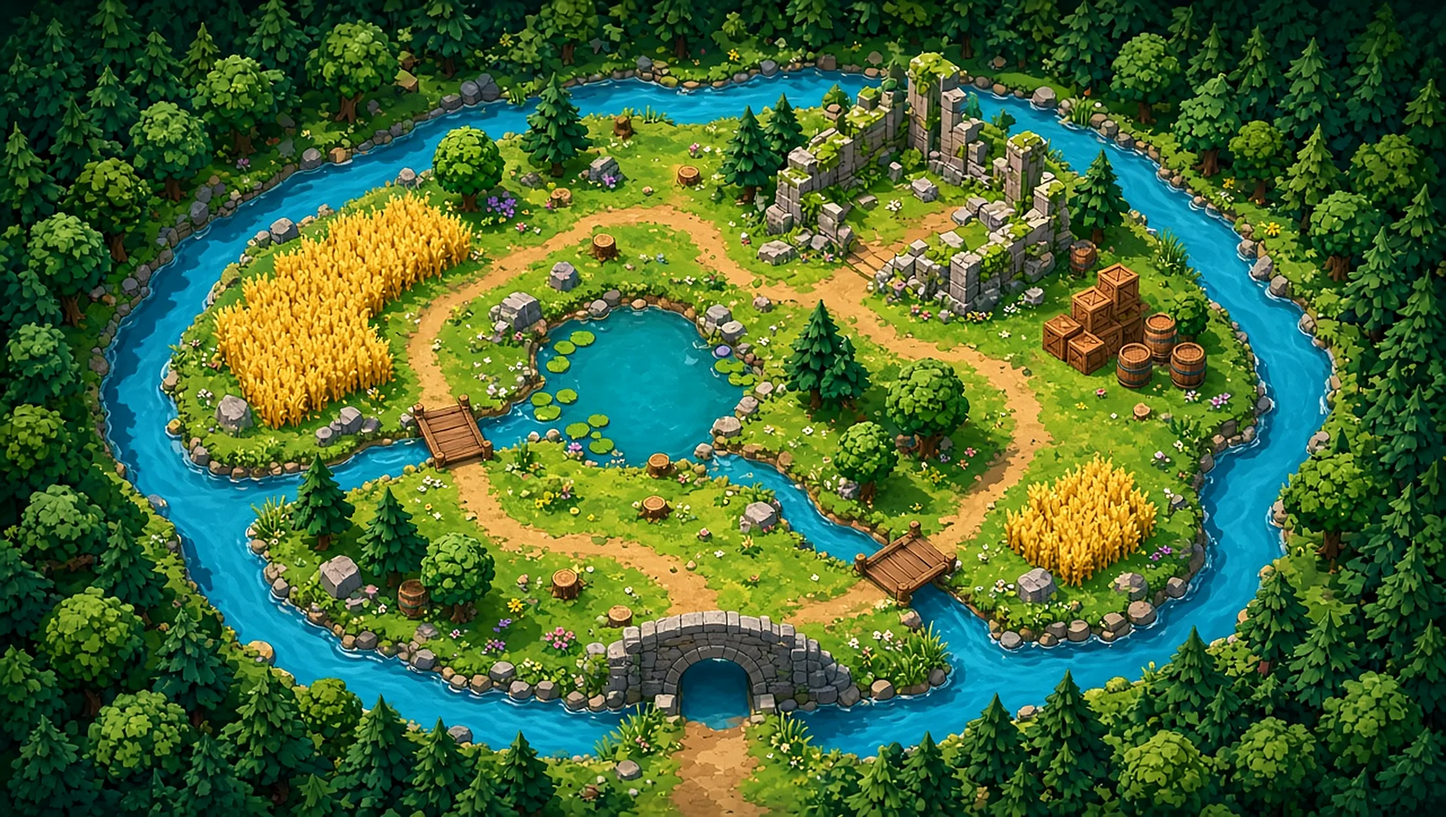
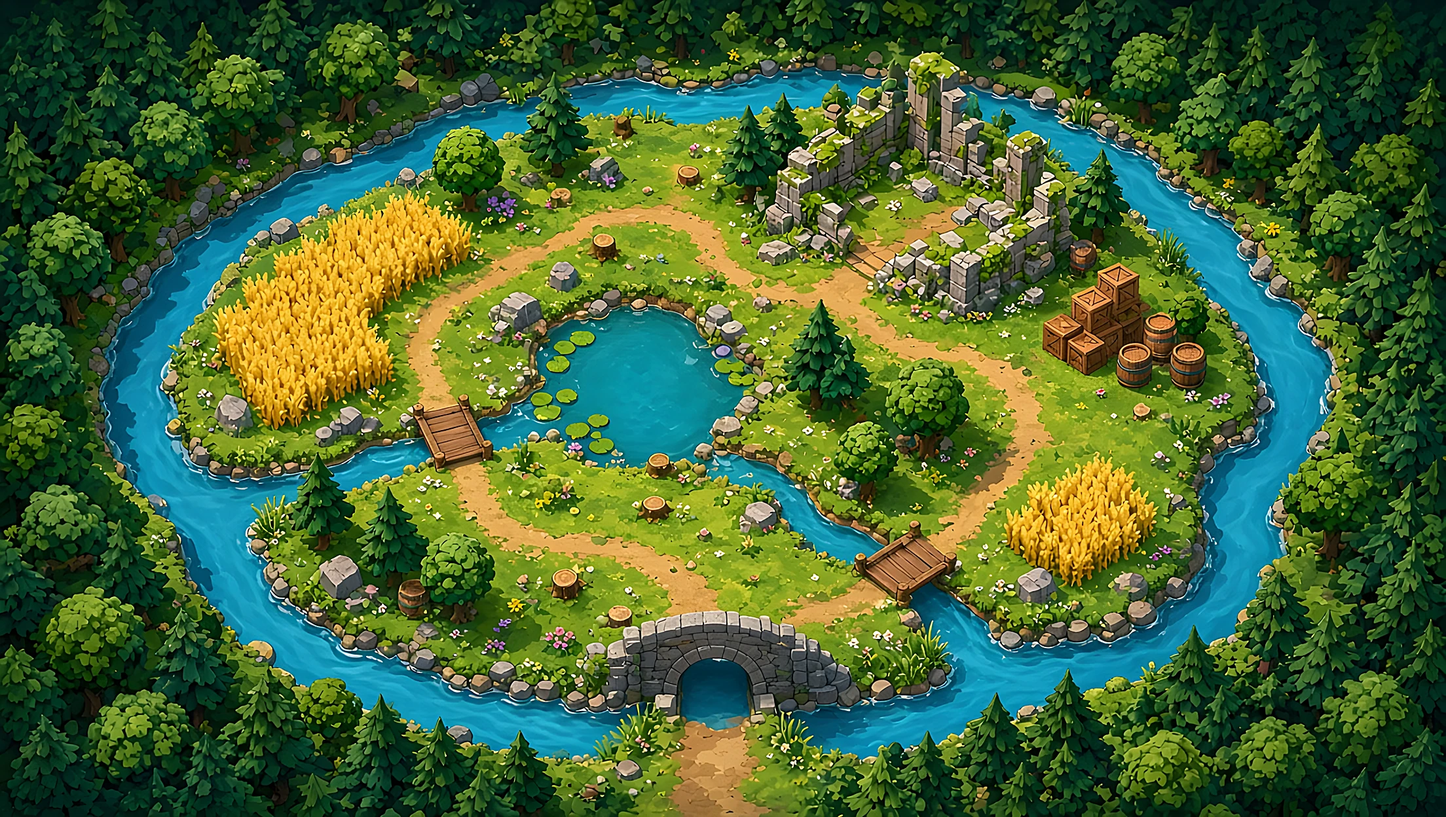
Block Z v20.1.2: safe zombie spawns and crisper arena ground.
Validate every spawn against all prop colliders, water and forest
(typemap, SDF, walk grid) with boss clearance, and skip spots hidden
behind tree sprites or painted ruins/crates. Never fall back to a
blocked point; nudge regular, elite, splitter-mini and boss units onto
free ground on spawn. Re-upscale the arena painting with Real-ESRGAN
x4plus and resample to the same 2208x1248 size (same chunk cache and
draw path, no perf change).

diff --git a/js/02_map.js b/js/02_map.js
@@ -622,18 +622,106 @@ function moveWithSlide(ent,dx,dy){
   for(i=0;i<steps;i++){ent.x+=dx*s;ent.y+=dy*s;resolveCircle(ent);}
   if(typeof sampleSDF==="function" && sampleSDF(ent.x,ent.y)<(ent.r||13)*0.35 && ent._gx!=null){ent.x=ent._gx;ent.y=ent._gy;resolveCircle(ent);}
 }
-function pickSpawn(p){
+/* v20.1.2: safe spawns — every spawn point is validated against all props
+   (trees, ruins, crates, barrels, rocks), water / forest edge (typemap + SDF)
+   and the baked walk grid, with clearance for the biggest unit. */
+var SPAWN_CLEAR_Z=22,SPAWN_CLEAR_BOSS=30;
+function spawnBlocked(x,y,rad){
+  rad=rad||SPAWN_CLEAR_Z;
+  if(!(x>=rad+4&&y>=rad+4&&x<=CFG.MAP_W-rad-4&&y<=CFG.MAP_H-rad-4))return 1;
+  if(typeof sampleType==="function"&&sampleType(x,y)!==0)return 1;
+  if(typeof sampleSDF==="function"&&sampleSDF(x,y)<rad)return 1;
+  /* props: test every solid, including climbable ones, with full radius */
+  var i,s,a=map.solids||[],qx,qy,dx,dy,cr;
+  for(i=0;i<a.length;i++){
+    s=a[i];if(!s||s.dead)continue;
+    if(s.shape==="circle"){
+      cr=s.cr||Math.min(s.w,s.d)/2;dx=x-(s.x+s.w/2);dy=y-(s.y+s.d/2);
+      if(dx*dx+dy*dy<(rad+cr)*(rad+cr))return 1;
+      continue;
+    }
+    qx=clamp(x,s.x,s.x+s.w);qy=clamp(y,s.y,s.y+s.d);dx=x-qx;dy=y-qy;
+    if(dx*dx+dy*dy<rad*rad)return 1;
+  }
+  if(spawnHidden(x,y,rad))return 1;
+  if(map.grid){
+    var need=Math.ceil(rad/CFG.CELL)+1,cc,rr,c0,r0,px,py,lim=(rad+CFG.CELL*0.4)*(rad+CFG.CELL*0.4);
+    c0=(x/CFG.CELL)|0;r0=(y/CFG.CELL)|0;
+    for(rr=r0-need;rr<=r0+need;rr++){
+      for(cc=c0-need;cc<=c0+need;cc++){
+        px=(cc+0.5)*CFG.CELL;py=(rr+0.5)*CFG.CELL;
+        if((px-x)*(px-x)+(py-y)*(py-y)>lim)continue;
+        if(rr<0||rr>=map.rows||cc<0||cc>=map.cols)return 1;
+        if(map.grid[rr*map.cols+cc])return 1;
+      }
+    }
+  }
+  return 0;
+}
+/* Spots that look "inside" a structure on screen: behind a tree sprite
+   (drawn tall above its trunk, opaque from the north), under its canopy,
+   or tucked into the painted ruin / crate walls just north of a footprint. */
+function spawnHidden(x,y,rad){
+  var i,s,a=map.solids||[],cx,cy,R,mul,hy,hw,dx,dy,ys=CFG.YSCALE||0.7,m=rad*0.5;
+  for(i=0;i<a.length;i++){
+    s=a[i];if(!s||s.dead)continue;
+    if(s.k==="tree"){
+      cx=s.x+s.w/2;cy=s.y+s.d/2;R=s.canopy||34;dx=x-cx;dy=y-cy;
+      if(dx*dx+dy*dy<(R*0.6+m)*(R*0.6+m))return 1;
+      mul=s.treeKind==="pine"?2.85:s.treeKind==="bushy"?2.25:2.55;
+      hy=R*mul/ys;hw=R*mul*0.78*(s.treeKind==="pine"?0.32:0.4);
+      if(dy<0&&dy>-hy*0.92&&Math.abs(dx)<hw+m*0.5)return 1;
+      continue;
+    }
+    if(s.k==="ruin"||s.k==="crate"||s.k==="barrel"||s.k==="rock"){
+      hy=(s.h||16)/ys+m;
+      if(x>s.x-m&&x<s.x+s.w+m&&y<s.y+s.d&&y>s.y-hy)return 1;
+    }
+  }
+  return 0;
+}
+function _freeCells(rad){
+  map._freeCache=map._freeCache||{};
+  var key=rad+":"+(map.solids?map.solids.length:0);
+  if(map._freeCache[key])return map._freeCache[key];
+  var out=[],c,r,wx,wy;
+  for(r=1;r<map.rows-1;r++)for(c=1;c<map.cols-1;c++){
+    if(map.grid&&map.grid[r*map.cols+c])continue;
+    wx=(c+0.5)*CFG.CELL;wy=(r+0.5)*CFG.CELL;
+    if(!spawnBlocked(wx,wy,rad))out.push({x:wx,y:wy});
+  }
+  map._freeCache[key]=out;return out;
+}
+function placeOnGround(ent){
+  if(!ent)return ent;
+  var rad=ent.isBoss?Math.max(ent.r||26,SPAWN_CLEAR_BOSS):(ent.r||13)+2,i,ang,d,px,py,best=null,bd=1e18,f;
+  if(!spawnBlocked(ent.x,ent.y,rad))return ent;
+  for(d=6;d<=150;d+=6){
+    for(i=0;i<24;i++){
+      ang=i*(6.28318530718/24);
+      px=ent.x+Math.cos(ang)*d;py=ent.y+Math.sin(ang)*d;
+      if(!spawnBlocked(px,py,rad)){ent.x=px;ent.y=py;return ent;}
+    }
+  }
+  f=_freeCells(rad);
+  for(i=0;i<f.length;i++){d=(f[i].x-ent.x)*(f[i].x-ent.x)+(f[i].y-ent.y)*(f[i].y-ent.y);if(d<bd){bd=d;best=f[i];}}
+  if(best){ent.x=best.x;ent.y=best.y;}
+  return ent;
+}
+function pickSpawn(p,radOpt){
   if(!map.flowDist)updateFlow(p.x,p.y);
   var hw=worldW()*0.5,hh=worldH()*0.5,diag=Math.sqrt(hw*hw+hh*hh);
-  var r0=diag+24,i,sp,best=null,bestD=0,s,d,ok;
+  var r0=diag+24,i,best=null,bestD=0,s,d,rad=radOpt||SPAWN_CLEAR_Z;
+  function reach(x,y){
+    if(!map.flowDist)return 1;
+    var c=clamp((x/CFG.CELL)|0,0,map.cols-1),r=clamp((y/CFG.CELL)|0,0,map.rows-1);
+    return map.flowDist[r*map.cols+c]>=0;
+  }
   function usable(x,y){
     if(inCamView(x,y,20))return 0;
     if(dist(p.x,p.y,x,y)<Math.max(140,r0-40))return 0;
-    if(circleHitSolid(x,y,16,"solid"))return 0;
-    var c=clamp((x/CFG.CELL)|0,0,map.cols-1),r=clamp((y/CFG.CELL)|0,0,map.rows-1);
-    if(map.grid[r*map.cols+c])return 0;
-    if(map.flowDist&&map.flowDist[r*map.cols+c]<0)return 0;
-    return 1;
+    if(spawnBlocked(x,y,rad))return 0;
+    return reach(x,y);
   }
   if(map.spawns&&map.spawns.length){
     for(i=0;i<map.spawns.length;i++){
@@ -643,34 +731,39 @@ function pickSpawn(p){
       if(d>bestD){bestD=d;best=s;}
     }
     if(best)return {x:best.x,y:best.y};
-    for(i=0;i<map.spawns.length;i++){
-      s=map.spawns[i];
-      if(!circleHitSolid(s.x,s.y,16,"solid"))return {x:s.x,y:s.y};
-    }
   }
-  /* fallback: ring search, stay on island */
   var ang,r,pt;
-  for(r=r0;r<=r0+280;r+=28){
-    for(i=0;i<16;i++){
-      ang=i*(6.283/16)+(p.facing||0);
+  for(r=r0;r<=r0+320;r+=24){
+    for(i=0;i<20;i++){
+      ang=i*(6.283/20)+(p.facing||0);
       pt={x:p.x+Math.cos(ang)*r,y:p.y+Math.sin(ang)*r};
       if(usable(pt.x,pt.y))return pt;
     }
   }
-  if(map.spawns&&map.spawns.length)return {x:map.spawns[0].x,y:map.spawns[0].y};
+  /* still valid ground, even if close / on camera — never a blocked point */
+  var f=_freeCells(rad),cand=null;bestD=-1;
+  for(i=0;i<f.length;i++){
+    if(!reach(f[i].x,f[i].y))continue;
+    d=dist(p.x,p.y,f[i].x,f[i].y);
+    if(inCamView(f[i].x,f[i].y,10))d*=0.25;
+    if(d>bestD){bestD=d;cand=f[i];}
+  }
+  if(cand)return {x:cand.x,y:cand.y};
+  if(f.length)return {x:f[0].x,y:f[0].y};
   return {x:map.start.x,y:map.start.y};
 }
 function pickBossSpawn(p){
   /* open clearing south of the pond / north of the stone bridge */
-  var cands=[
+  var rad=SPAWN_CLEAR_BOSS,cands=[
     {x:(map.start&&map.start.x)||552,y:((map.start&&map.start.y)||430)-20},
     {x:620,y:400},{x:500,y:400},{x:640,y:360},{x:480,y:360}
-  ],i,s;
+  ],i,s,e;
   for(i=0;i<cands.length;i++){
     s=cands[i];
-    if(!circleHitSolid(s.x,s.y,28,"solid"))return s;
+    if(!spawnBlocked(s.x,s.y,rad))return {x:s.x,y:s.y};
   }
-  return pickSpawn(p||(game&&game.player)||{x:552,y:430});
+  e=pickSpawn(p||(game&&game.player)||{x:552,y:430},rad);
+  return e;
 }
 function zoneAt(x,y){
   var i,z,best=null,ba=1e15,a,t,n=10;

diff --git a/index.html b/index.html
@@ -7,23 +7,23 @@
 <meta name="apple-mobile-web-app-title" content="Block Z">
 <meta name="theme-color" content="#1a0708">
 <link rel="preload" as="audio" href="assets/mus/menu.mp3" type="audio/mpeg" fetchpriority="high">
-<link rel="manifest" href="manifest.json?v=20.1.1">
+<link rel="manifest" href="manifest.json?v=20.1.2">
 <link rel="apple-touch-icon" href="apple-touch-icon.png">
 <link rel="icon" type="image/png" sizes="192x192" href="icon-192.png">
 <link rel="icon" type="image/png" sizes="512x512" href="icon-512.png">
 <link rel="icon" type="image/png" sizes="32x32" href="favicon-32.png">
 <link rel="shortcut icon" href="favicon.ico">
 <!-- Dark iOS launch images so the first paint is never a stale screenshot of an older build. -->
-<link rel="apple-touch-startup-image" href="assets/ui/splash-2532x1170.png?v=20.1.1" media="(device-width: 844px) and (device-height: 390px) and (-webkit-device-pixel-ratio: 3) and (orientation: landscape)">
-<link rel="apple-touch-startup-image" href="assets/ui/splash-2532x1170.png?v=20.1.1" media="(device-width: 390px) and (device-height: 844px) and (-webkit-device-pixel-ratio: 3) and (orientation: landscape)">
-<link rel="apple-touch-startup-image" href="assets/ui/splash-2556x1179.png?v=20.1.1" media="(device-width: 393px) and (device-height: 852px) and (-webkit-device-pixel-ratio: 3) and (orientation: landscape)">
-<link rel="apple-touch-startup-image" href="assets/ui/splash-2796x1290.png?v=20.1.1" media="(device-width: 430px) and (device-height: 932px) and (-webkit-device-pixel-ratio: 3) and (orientation: landscape)">
-<link rel="apple-touch-startup-image" href="assets/ui/splash-2778x1284.png?v=20.1.1" media="(device-width: 428px) and (device-height: 926px) and (-webkit-device-pixel-ratio: 3) and (orientation: landscape)">
-<link rel="apple-touch-startup-image" href="assets/ui/splash-2436x1125.png?v=20.1.1" media="(device-width: 375px) and (device-height: 812px) and (-webkit-device-pixel-ratio: 3) and (orientation: landscape)">
-<link rel="apple-touch-startup-image" href="assets/ui/splash-2340x1080.png?v=20.1.1" media="(device-width: 360px) and (device-height: 780px) and (-webkit-device-pixel-ratio: 3) and (orientation: landscape)">
-<link rel="apple-touch-startup-image" href="assets/ui/splash-1792x828.png?v=20.1.1" media="(device-width: 414px) and (device-height: 896px) and (-webkit-device-pixel-ratio: 2) and (orientation: landscape)">
-<link rel="apple-touch-startup-image" href="assets/ui/splash-2208x1242.png?v=20.1.1" media="(device-width: 414px) and (device-height: 736px) and (-webkit-device-pixel-ratio: 3) and (orientation: landscape)">
-<link rel="apple-touch-startup-image" href="assets/ui/splash-1334x750.png?v=20.1.1" media="(device-width: 375px) and (device-height: 667px) and (-webkit-device-pixel-ratio: 2) and (orientation: landscape)">
+<link rel="apple-touch-startup-image" href="assets/ui/splash-2532x1170.png?v=20.1.2" media="(device-width: 844px) and (device-height: 390px) and (-webkit-device-pixel-ratio: 3) and (orientation: landscape)">
+<link rel="apple-touch-startup-image" href="assets/ui/splash-2532x1170.png?v=20.1.2" media="(device-width: 390px) and (device-height: 844px) and (-webkit-device-pixel-ratio: 3) and (orientation: landscape)">
+<link rel="apple-touch-startup-image" href="assets/ui/splash-2556x1179.png?v=20.1.2" media="(device-width: 393px) and (device-height: 852px) and (-webkit-device-pixel-ratio: 3) and (orientation: landscape)">
+<link rel="apple-touch-startup-image" href="assets/ui/splash-2796x1290.png?v=20.1.2" media="(device-width: 430px) and (device-height: 932px) and (-webkit-device-pixel-ratio: 3) and (orientation: landscape)">
+<link rel="apple-touch-startup-image" href="assets/ui/splash-2778x1284.png?v=20.1.2" media="(device-width: 428px) and (device-height: 926px) and (-webkit-device-pixel-ratio: 3) and (orientation: landscape)">
+<link rel="apple-touch-startup-image" href="assets/ui/splash-2436x1125.png?v=20.1.2" media="(device-width: 375px) and (device-height: 812px) and (-webkit-device-pixel-ratio: 3) and (orientation: landscape)">
+<link rel="apple-touch-startup-image" href="assets/ui/splash-2340x1080.png?v=20.1.2" media="(device-width: 360px) and (device-height: 780px) and (-webkit-device-pixel-ratio: 3) and (orientation: landscape)">
+<link rel="apple-touch-startup-image" href="assets/ui/splash-1792x828.png?v=20.1.2" media="(device-width: 414px) and (device-height: 896px) and (-webkit-device-pixel-ratio: 2) and (orientation: landscape)">
+<link rel="apple-touch-startup-image" href="assets/ui/splash-2208x1242.png?v=20.1.2" media="(device-width: 414px) and (device-height: 736px) and (-webkit-device-pixel-ratio: 3) and (orientation: landscape)">
+<link rel="apple-touch-startup-image" href="assets/ui/splash-1334x750.png?v=20.1.2" media="(device-width: 375px) and (device-height: 667px) and (-webkit-device-pixel-ratio: 2) and (orientation: landscape)">
 <title>Block Z</title>
 <style>
 :root{
@@ -41,15 +41,15 @@ html,body{width:100%;height:100%;min-height:100%;min-height:100vh;min-height:100
 <body>
 <div id="bootError"></div>
 <canvas id="gameCanvas"></canvas>
-<script src="js/00_audio.js?v=20.1.1"></script>
-<script src="js/01_core.js?v=20.1.1"></script>
-<script src="js/02_map_data.js?v=20.1.1"></script>
-<script src="js/02_map.js?v=20.1.1"></script>
-<script src="js/03_draw.js?v=20.1.1"></script>
-<script src="js/04_sim.js?v=20.1.1"></script>
-<script src="js/05_update.js?v=20.1.1"></script>
-<script src="js/07_gfx.js?v=20.1.1"></script>
-<script src="js/08_art.js?v=20.1.1"></script>
-<script src="js/09_events.js?v=20.1.1"></script>
-<script src="js/06_ui.js?v=20.1.1"></script>
+<script src="js/00_audio.js?v=20.1.2"></script>
+<script src="js/01_core.js?v=20.1.2"></script>
+<script src="js/02_map_data.js?v=20.1.2"></script>
+<script src="js/02_map.js?v=20.1.2"></script>
+<script src="js/03_draw.js?v=20.1.2"></script>
+<script src="js/04_sim.js?v=20.1.2"></script>
+<script src="js/05_update.js?v=20.1.2"></script>
+<script src="js/07_gfx.js?v=20.1.2"></script>
+<script src="js/08_art.js?v=20.1.2"></script>
+<script src="js/09_events.js?v=20.1.2"></script>
+<script src="js/06_ui.js?v=20.1.2"></script>
 </body></html>

diff --git a/js/04_sim.js b/js/04_sim.js
@@ -34,7 +34,7 @@ function spawnColossus(x,y){
   var z=spawnZombie("boss",x,y,2);
   var bs=(typeof waveDifficulty==="function"?waveDifficulty(2).bossHp:1.08);
   z.hp=Math.round(1140*bs);z.maxHp=z.hp;z.isBoss=1;z.isColossus=1;z.r=24;z.h=52;z.speed=72;z.damage=Math.round(21*bs);z.score=800;z.xp=350;
-  z.look=makeColossusLook();z.phase="intro";z.introT=4.2;z.atkCd=1.6;z.windup=null;z.windupT=0;z.bName="EL COLOSSUS";
+  z.look=makeColossusLook();z.phase="intro";z.introT=4.2;z.atkCd=1.6;z.windup=null;z.windupT=0;z.bName="EL COLOSSUS";if(typeof placeOnGround==="function")placeOnGround(z);
   z.speechDone=0;z.bubbleText="";z.bubbleFull="";z.bubbleIdx=0;z.bubbleT=0;z.rings=[];z.throws=[];z.chargeT=0;z.chargeAng=0;
   return z;
 }
@@ -43,7 +43,7 @@ function spawnHome(x,y){
   var bs=(typeof waveDifficulty==="function"?waveDifficulty(5).bossHp:1.21);
   z.hp=Math.round(1260*bs);z.maxHp=z.hp;z.isBoss=1;z.isHome=1;z.r=20;z.h=50;z.speed=90;z.damage=Math.round(17*bs);z.score=900;z.xp=380;
   z.look=makeHomeLook();z.phase="intro";z.introT=4;z.atkCd=1.8;z.windup=null;z.windupT=0;z.p2=0;z.bName="HOMELANDER";
-  z.bubbleText="";z.bubbleFull="¿Sabéis quién soy?";z.bubbleIdx=0;z.bubbleT=0;z.rings=[];z.diveT=0;z.tx=x;z.ty=y;
+  z.bubbleText="";z.bubbleFull="¿Sabéis quién soy?";z.bubbleIdx=0;z.bubbleT=0;z.rings=[];z.diveT=0;if(typeof placeOnGround==="function")placeOnGround(z);z.tx=z.x;z.ty=z.y;
   return z;
 }
 function addParticle(x,y,color,life,vx,vy,size,kind){var p=particlePool.pop()||{};p.x=x;p.y=y;p.vx=vx!=null?vx:rand(-80,80);p.vy=vy!=null?vy:rand(-80,80);p.life=life||0.4;p.maxLife=p.life;p.color=color;p.size=size||rand(2,5);p.kind=kind||0;p.rot=rand(0,6);p.spin=rand(-8,8);p.lift=0;game.particles.push(p);var cap=(typeof GFX!=="undefined"&&GFX.maxPart)||240;if(game.particles.length>cap)game.particles.splice(0,game.particles.length-cap);return p;}
@@ -278,7 +278,7 @@ function killZombie(z){
   if(typeof addBlood==="function")addBlood(z.x,z.y,busy?2:4);
   if(p.bloodlust)p.bloodStacks=Math.min(10,(p.bloodStacks||0)+1);
   if(z.type==="exploder"||z.explode)explodeAt(z.x,z.y,70,28,{friendly:0});
-  if(z.type==="splitter"){for(var i=0;i<2;i++){var m=spawnZombie("mini",z.x+rand(-16,16),z.y+rand(-16,16),game.wave);game.zombies.push(m);}}
+  if(z.type==="splitter"){for(var i=0;i<2;i++){var m=spawnZombie("mini",z.x+rand(-16,16),z.y+rand(-16,16),game.wave);if(typeof placeOnGround==="function")placeOnGround(m);game.zombies.push(m);}}
 }
 function grantRunXP(p,n){
   if(p.xpMul)n=(n*p.xpMul)|0;
@@ -610,7 +610,7 @@ function beginCombat(){
   var p=game.player;
   if(game.wave===2){var s=(typeof pickBossSpawn==='function'?pickBossSpawn(p):pickSpawn(p));startBoss(spawnColossus(s.x,s.y),"¡Vamos a gamblear!","Va va vamos a gam gam blear",88);return;}
   if(game.wave===5){var s1=(typeof pickBossSpawn==='function'?pickBossSpawn(p):pickSpawn(p));startBoss(spawnHome(s1.x,s1.y),"¿Sabéis quién soy?","Sa sa sabeis quien soy yo",110);return;}
-  if(game.wave===9){var s2=(typeof pickBossSpawn==='function'?pickBossSpawn(p):pickSpawn(p)),fb=spawnZombie("boss",s2.x,s2.y,9),bs=(typeof waveDifficulty==="function"?waveDifficulty(9).bossHp:1.49);fb.isBoss=1;fb.hp=Math.round(1320*bs);fb.maxHp=fb.hp;fb.r=26;fb.h=58;fb.speed=Math.round(60*(typeof waveDifficulty==="function"?waveDifficulty(9).speed:1));fb.damage=Math.round(28*(typeof waveDifficulty==="function"?waveDifficulty(9).dmg:1));fb.bName="JEFE FINAL";fb.look.final=1;fb.look.kind="final";fb.look.type="boss";fb.rings=[];fb.throws=[];fb.atkCd=2;fb.windup=null;fb.windupT=0;fb.chargeT=0;startBoss(fb,"¡El fin!","El fin",70);return;}
+  if(game.wave===9){var s2=(typeof pickBossSpawn==='function'?pickBossSpawn(p):pickSpawn(p)),fb=spawnZombie("boss",s2.x,s2.y,9),bs=(typeof waveDifficulty==="function"?waveDifficulty(9).bossHp:1.49);fb.isBoss=1;fb.hp=Math.round(1320*bs);fb.maxHp=fb.hp;fb.r=26;fb.h=58;if(typeof placeOnGround==="function")placeOnGround(fb);fb.speed=Math.round(60*(typeof waveDifficulty==="function"?waveDifficulty(9).speed:1));fb.damage=Math.round(28*(typeof waveDifficulty==="function"?waveDifficulty(9).dmg:1));fb.bName="JEFE FINAL";fb.look.final=1;fb.look.kind="final";fb.look.type="boss";fb.rings=[];fb.throws=[];fb.atkCd=2;fb.windup=null;fb.windupT=0;fb.chargeT=0;startBoss(fb,"¡El fin!","El fin",70);return;}
   p.invuln=Math.max(p.invuln,0.9);game.state="playing";game.spawnTimer=0.5;game.graceT=1.4;
 }
 function startBoss(z,line,bab,pitch){

diff --git a/js/00_audio.js b/js/00_audio.js
@@ -15,7 +15,7 @@ function ensureMusicBeds(){
   if(audio.beds)return;
   audio.beds={};
   Object.keys(MUS_BEDS).forEach(function(k){
-    var a=new Audio(MUS_BEDS[k]+(MUS_BEDS[k].indexOf("?")>=0?"":"?v=20.1.1"));
+    var a=new Audio(MUS_BEDS[k]+(MUS_BEDS[k].indexOf("?")>=0?"":"?v=20.1.2"));
     a.loop=true;a.preload="auto";a.crossOrigin="anonymous";a.volume=0;a.setAttribute("playsinline","playsinline");
     audio.beds[k]={el:a,gain:null,wanted:0,src:null};
   });
@@ -131,7 +131,7 @@ function prefetchSfx(){
     if(audio.sfxRaw[k])return;
     var ctrl=typeof AbortController==="function"?new AbortController():null;
     var to=setTimeout(function(){try{if(ctrl)ctrl.abort();}catch(e){}},8000);
-    fetch(SFX_FILES[k]+"?v=20.1.1",ctrl?{signal:ctrl.signal}:undefined).then(function(r){return r&&r.ok?r.arrayBuffer():null;}).then(function(ab){
+    fetch(SFX_FILES[k]+"?v=20.1.2",ctrl?{signal:ctrl.signal}:undefined).then(function(r){return r&&r.ok?r.arrayBuffer():null;}).then(function(ab){
       clearTimeout(to);
       if(ab)audio.sfxRaw[k]=ab;
       if(audio.ctx)decodeFetchedSfx();

diff --git a/js/08_art.js b/js/08_art.js
@@ -37,7 +37,7 @@ function artLoad(done){
   };
   mj.onerror=tick;mj.open("GET","assets/spr/meta.json?v=20");mj.send();
   var mw=new Image();mw.onload=function(){ART.menuWide=mw;tick();};mw.onerror=tick;mw.src="assets/ui/menu-wide.webp?v=20";
-  var ar=new Image();ar.onload=function(){ART.arena=ar;if(map){map.chunks={};map.dirty=1;}tick();};ar.onerror=tick;ar.src="assets/env/arena.webp?v=20";
+  var ar=new Image();ar.onload=function(){ART.arena=ar;if(map){map.chunks={};map.dirty=1;}tick();};ar.onerror=tick;ar.src="assets/env/arena.webp?v=20.1.2";
 }
 function artEntry(look,dir,pose){
   if(!ART.ready||!ART.meta)return null;

diff --git a/js/05_update.js b/js/05_update.js
@@ -254,6 +254,7 @@ function update(dt){
         typ=item&&item.type?item.type:item;el=item&&item.elite?1:0;
         sp=pickSpawn(p);
         nz=spawnZombie(typ,sp.x,sp.y,game.wave,el);
+        if(typeof placeOnGround==="function")placeOnGround(nz);
         game.zombies.push(nz);aliveN++;
         if(typeof announceNewZombie==="function")announceNewZombie(typ,el);
       }
